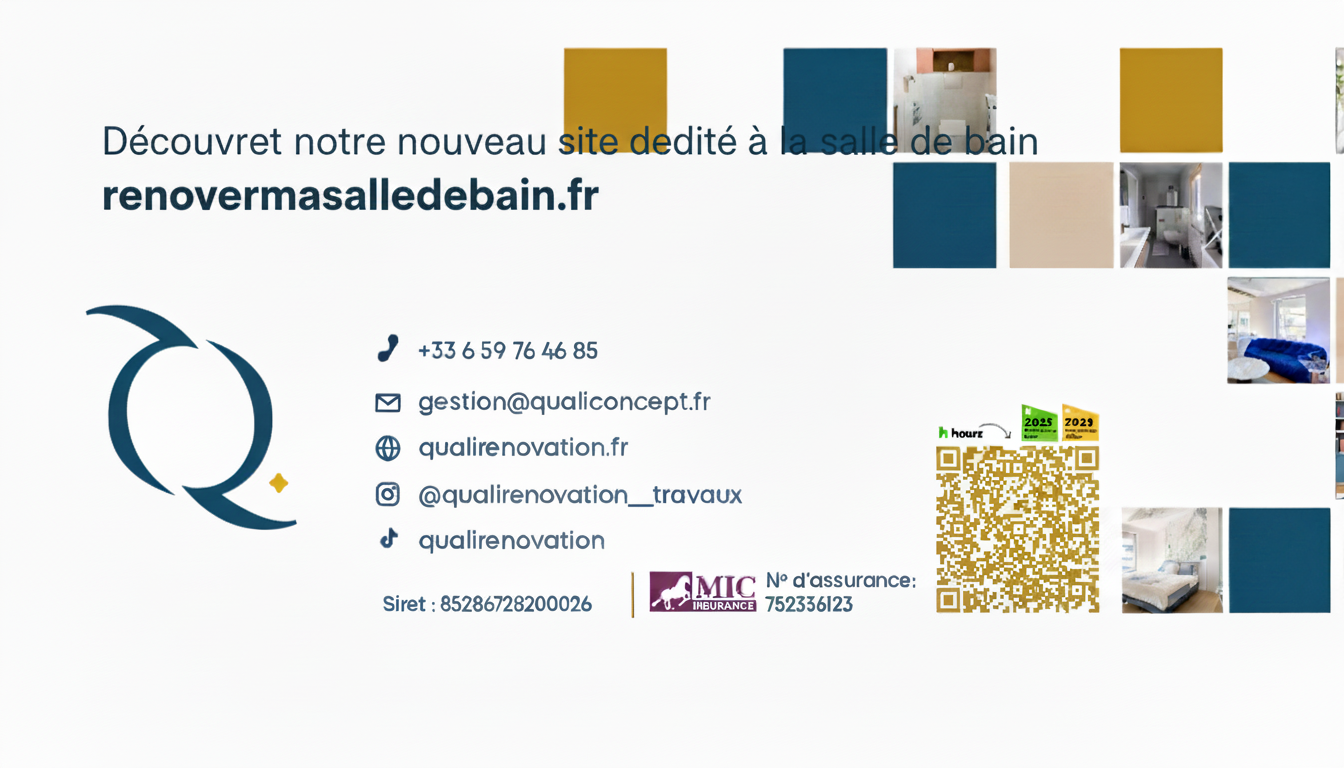
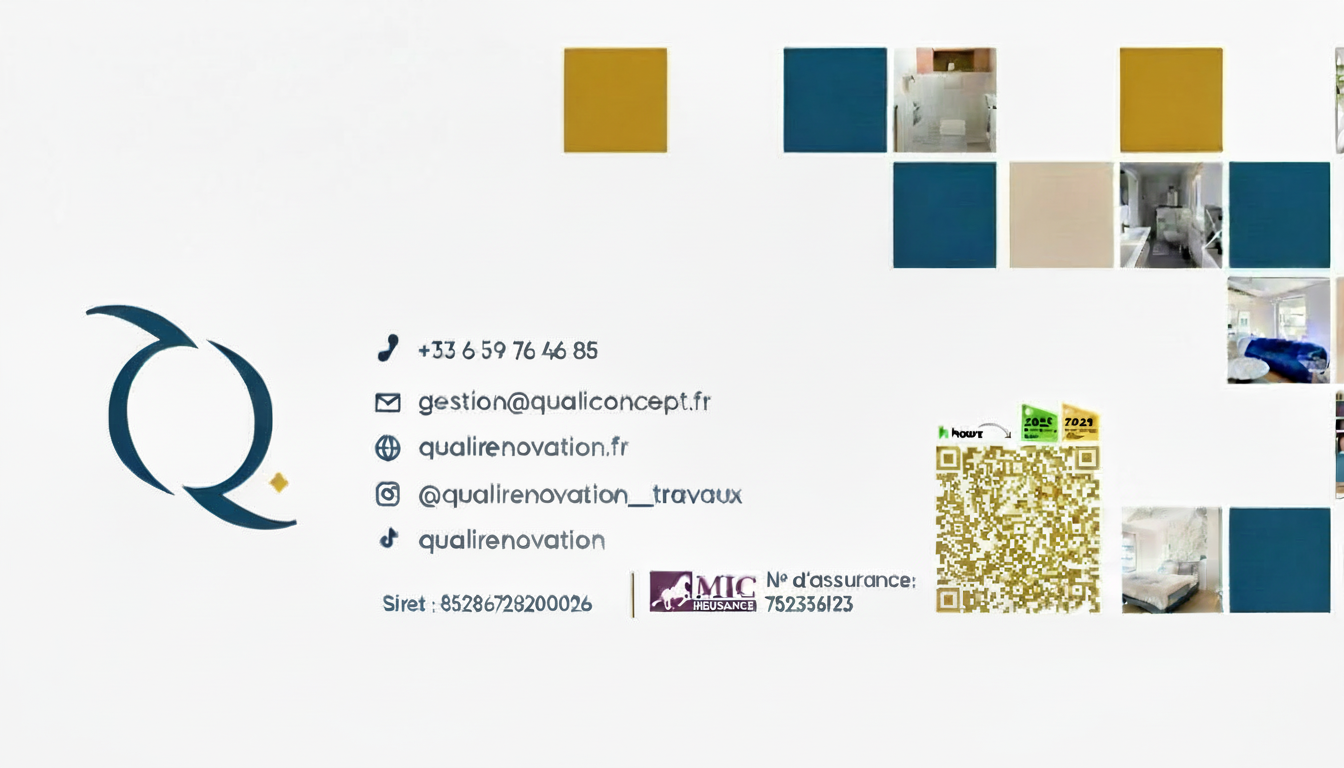
Changes

diff --git a/src/pages/VisuelsHouzz.tsx b/src/pages/VisuelsHouzz.tsx
@@ -64,11 +64,21 @@ export default function VisuelsHouzz() {
         {/* Pied de page Houzz */}
         <div>
           <h2 className="text-white text-xl mb-4">Pied de page Houzz</h2>
-          <img 
-            src={houzzPiedDePage} 
-            alt="Pied de page Houzz" 
-            className="w-full max-w-4xl mx-auto rounded-lg shadow-2xl"
-          />
+          <div className="relative max-w-4xl mx-auto">
+            <img 
+              src={houzzPiedDePage} 
+              alt="Pied de page Houzz" 
+              className="w-full rounded-t-lg shadow-2xl"
+            />
+            <div className="bg-[#f5f5f5] rounded-b-lg py-3 px-4 text-center shadow-2xl">
+              <p className="text-[#124A66] text-sm md:text-base lg:text-lg font-medium">
+                Découvrez notre nouveau site dédié à la salle de bain :{" "}
+                <a href="https://renovermasalledebain.fr" target="_blank" rel="noopener noreferrer" className="font-bold underline">
+                  https://renovermasalledebain.fr
+                </a>
+              </p>
+            </div>
+          </div>
         </div>
       </div>
     </div>
